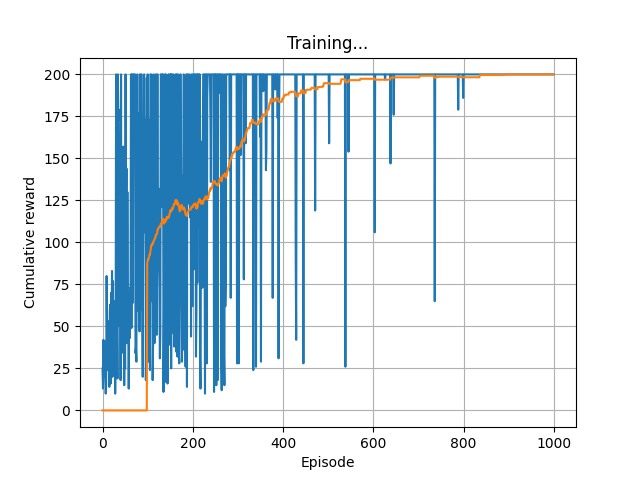
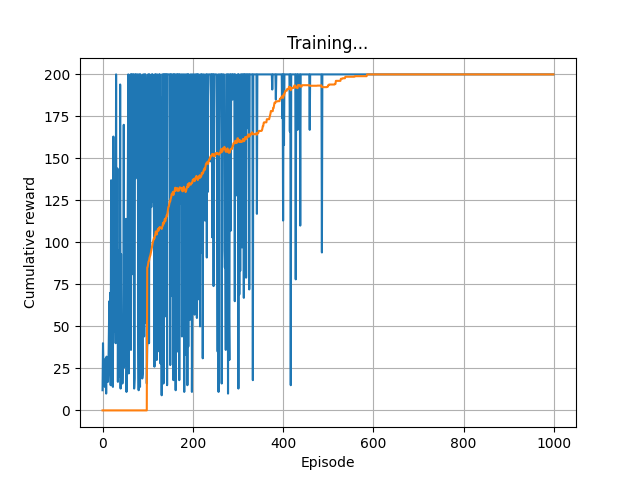
Ex4: task 3 implemented and some plots re-executed

Changed region(s): [[0.1562, 0.125, 0.75, 0.8125]]

diff --git a/exercise-4/main.py b/exercise-4/main.py
@@ -90,9 +90,59 @@ for ep in range(num_episodes):
     #               "weights_%s_%d.mdl" % (env_name, ep))
 
 plot_rewards(cumulative_rewards)
-plt.savefig("plots/task-2a.png")
+plt.savefig("plots/task-2b.png")
 print('Complete')
 plt.ioff()
 plt.show()
 
 # Task 3 - plot the policy
+
+# Values used for the discretization
+discr = 16
+x_min, x_max = -2.4, 2.4
+th_min, th_max = -0.3, 0.3
+
+# Fixed values
+v = 0
+av = 0
+
+# Discretization of the values
+x_grid = np.linspace(x_min, x_max, discr)
+th_grid = np.linspace(th_min, th_max, discr)
+
+# Calculation of the policy (optimal or greedy action)
+steps = range(discr)
+policy = np.array([
+    [agent.get_greedy_action(np.array([x, v, th, av])) for th in steps] for x in steps
+])
+
+# Plot is initialized
+fig, ax = plt.subplots()
+im = ax.imshow(policy)
+
+x_labels = [f"{np.round(th_grid[th], 2)}" for th in range(len(th_grid))]
+y_labels = [f"{np.round(x_grid[x], 2)}" for x in range(len(x_grid))]
+
+# Ticks on both edges are set
+ax.set_xticks(np.arange(len(x_labels)))
+ax.set_yticks(np.arange(len(y_labels)))
+ax.set_xticklabels(x_labels)
+ax.set_yticklabels(y_labels)
+ax.set_xlabel("angle (θ)")
+ax.set_ylabel("position (x)")
+
+# Rotate the tick labels and set their alignment.
+plt.setp(ax.get_xticklabels(), rotation=45, ha="right",
+         rotation_mode="anchor")
+
+# Loop over data dimensions and create text annotations.
+for i in range(len(x_labels)):
+    for j in range(len(y_labels)):
+        action = policy[i, j]
+        text = ax.text(j, i, action,
+                       ha="center", va="center", color="w" if action == 0 else "k")
+
+ax.set_title(f"Optimal action (Policy) for ẋ={v} and θ˙={av}")
+fig.tight_layout()
+plt.savefig("plots/task-3.png")
+plt.show()

diff --git a/exercise-4/rbf_agent.py b/exercise-4/rbf_agent.py
@@ -49,11 +49,11 @@ class Agent(object):
         if len(state.shape) == 1:
             state = state.reshape(1, -1)
         # Task 1a: DONE: Use (s, abs(s)) as features
-        scaled_state = self.scaler.transform(state)
-        return np.array([np.array([sample, np.abs(sample)]).flatten() for sample in scaled_state])
+        # scaled_state = self.scaler.transform(state)
+        # return np.array([np.array([sample, np.abs(sample)]).flatten() for sample in scaled_state])
 
         # Task 1b: RBF features
-        # return self.featurizer.transform(self.scaler.transform(state))
+        return self.featurizer.transform(self.scaler.transform(state))
 
     def get_action(self, state, epsilon=0.0):
         if np.random.random() < epsilon:
@@ -65,6 +65,13 @@ class Agent(object):
             qs = np.array(qs)
             a = np.argmax(qs, axis=0)
             return a
+
+    def get_greedy_action(self, state):
+        featurized = self.featurize(state)
+        qs = [q.predict(featurized)[0] for q in self.q_functions]
+        qs = np.array(qs)
+        a = np.argmax(qs)
+        return a
 
     def single_update(self, state, action, next_state, reward, done):
         if not done:
